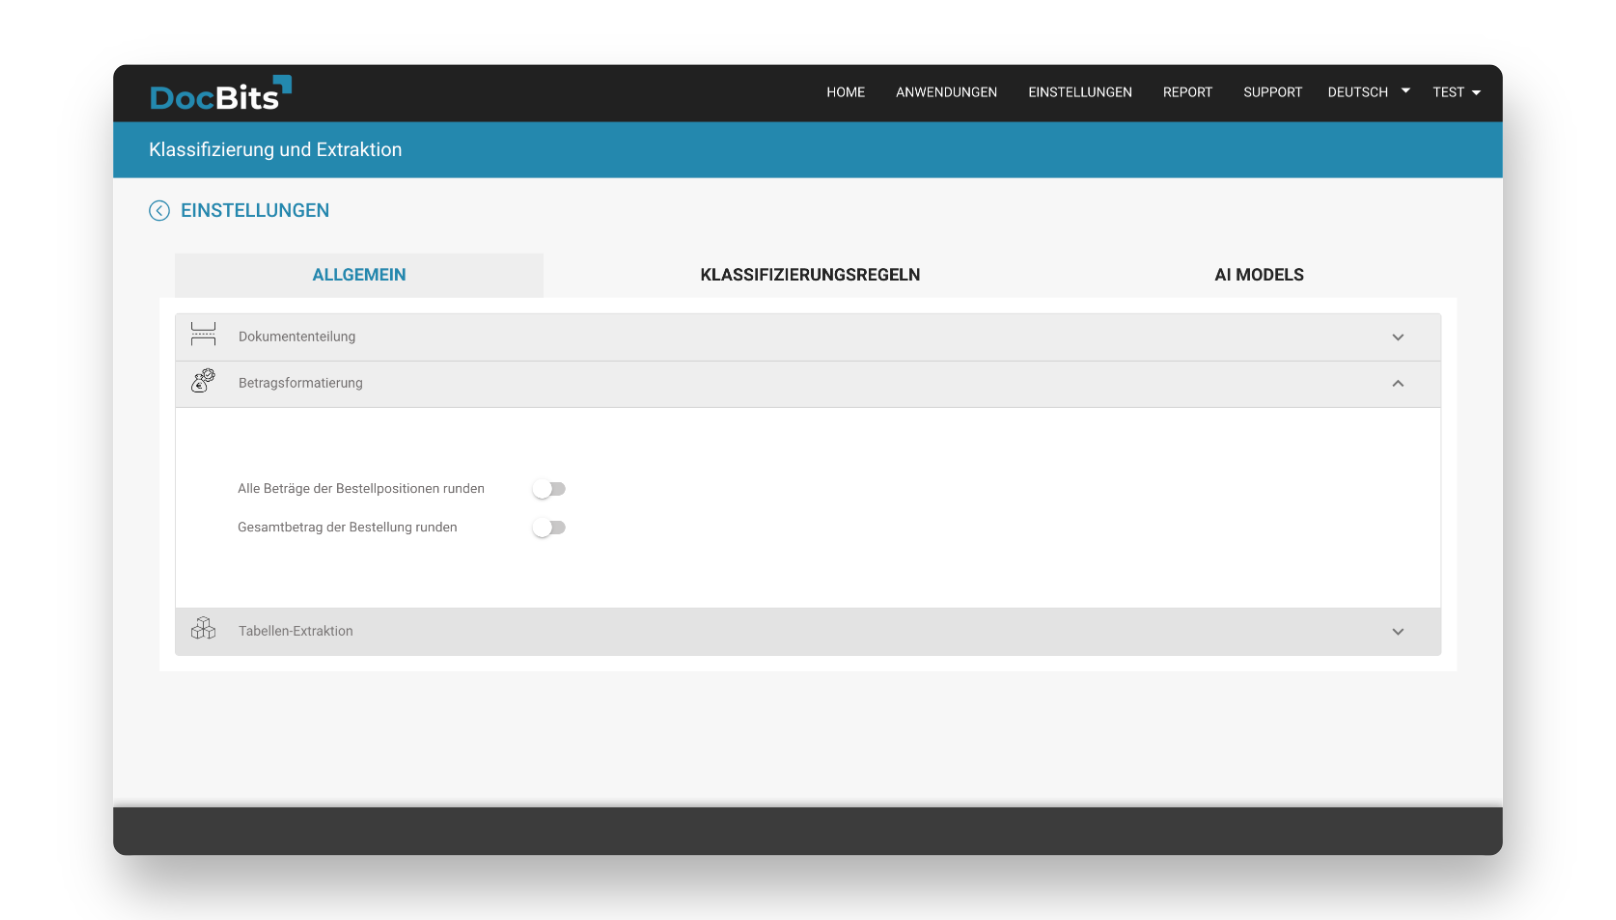
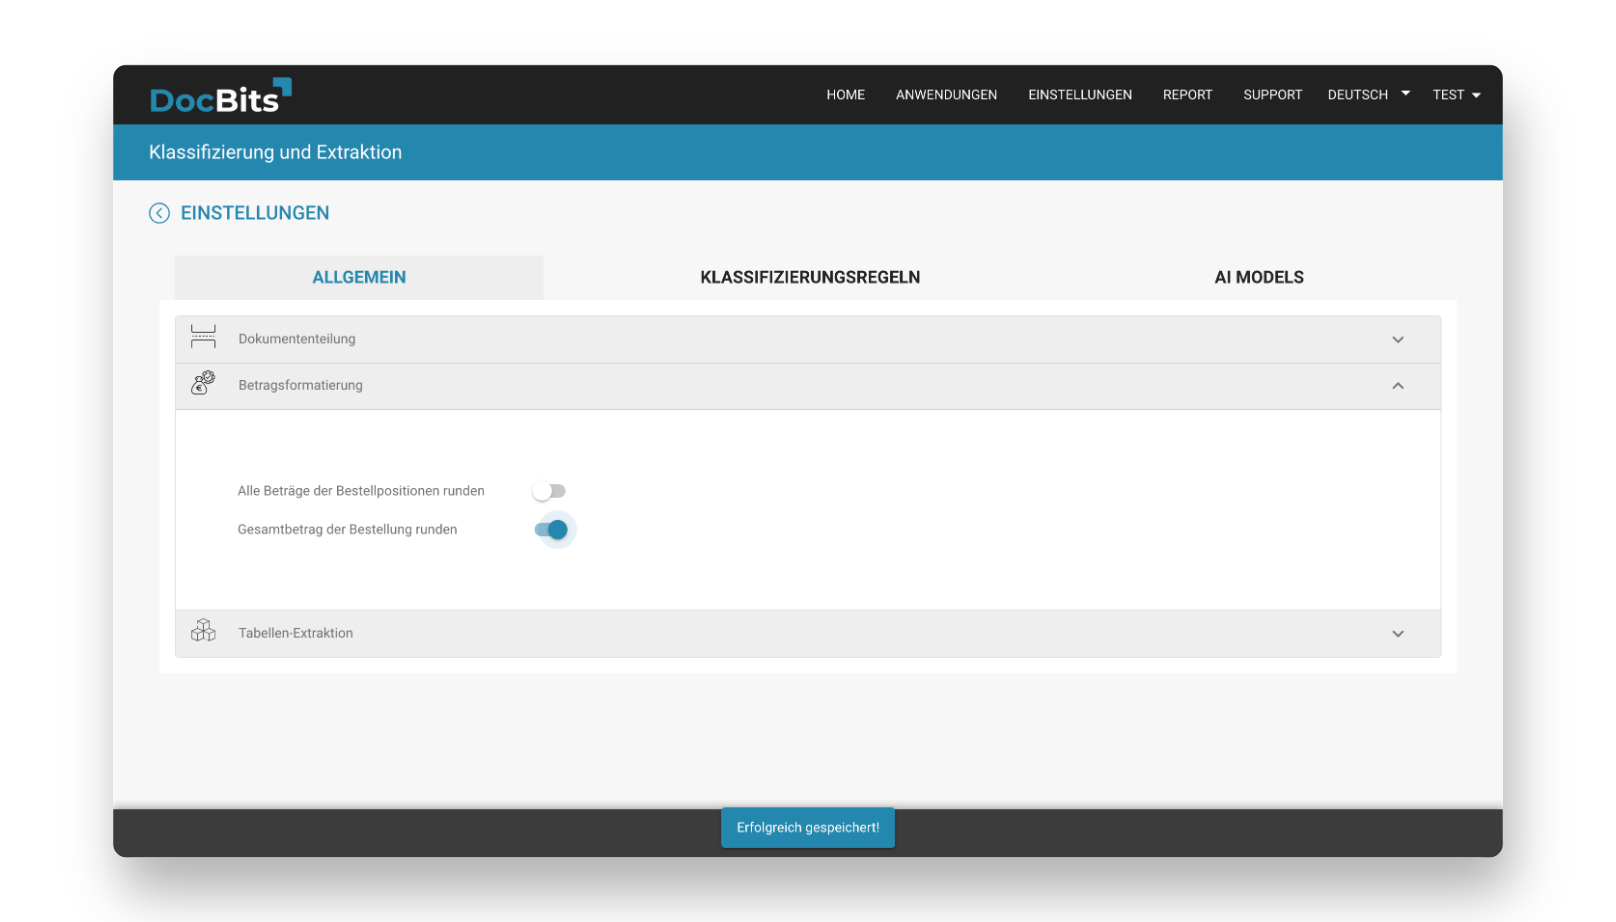
improvement settings-amount-settings.md

diff --git a/docs/de/docbits/settings-amount-settings.md b/docs/de/docbits/settings-amount-settings.md
@@ -23,5 +23,7 @@ Um diese Funktion zu aktivieren, schalten Sie einfach die Auswahl in den Einstel
 
 Wenn Sie keine Rechnungen verarbeiten, bei denen das Runden eine Rolle spielt, lassen Sie die Auswahl aus.
 
+![Betragsformatierung](/_images/docbits/einstellungen/klassifizierung-und-extraktion/Betragsformatierung.png)
+
 
 Stellen Sie sicher, dass Ihre Rechnungen korrekt und fehlerfrei sind - mit der Funktion für Betragsformatierung von DocBits (DOC²). Probieren Sie es noch heute aus!
